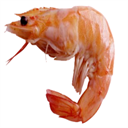
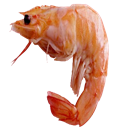
Update UI text and use new shrimp image
- Change header to "Don't be a shrimp!"
- Change instruction to "Remind me to sit straight in:"
- Make header and instruction text bold
- Use new shrimp cutout image for popup and icons

Changed region(s): [[0.0312, 0.0312, 0.9062, 1.0]]

diff --git a/popup.html b/popup.html
@@ -11,14 +11,14 @@
 </head>
 <body>
   <div class="container">
-    <h1>Don't be a shrimp</h1>
+    <h1>Don't be a shrimp!</h1>
 
     <div class="shrimp-container">
-      <img src="images/image.png" alt="Shrimp" class="shrimp-image" onerror="this.style.display='none'; this.nextElementSibling.style.display='flex';">
+      <img src="images/shrimp-main.png" alt="Shrimp" class="shrimp-image" onerror="this.style.display='none'; this.nextElementSibling.style.display='flex';">
       <div class="shrimp-placeholder">🦐</div>
     </div>
 
-    <p class="instruction">Choose when you want to be reminded to sit straight</p>
+    <p class="instruction">Remind me to sit straight in:</p>
 
     <div id="feedback" class="feedback"></div>
 

diff --git a/popup.css b/popup.css
@@ -37,7 +37,7 @@ body::before {
 
 h1 {
   font-size: 20px;
-  font-weight: normal;
+  font-weight: bold;
   text-align: center;
   margin-bottom: 16px;
   letter-spacing: 1px;
@@ -68,6 +68,7 @@ h1 {
 
 .instruction {
   font-size: 13px;
+  font-weight: bold;
   text-align: center;
   margin-bottom: 20px;
   line-height: 1.5;

diff --git a/README.md b/README.md
@@ -1,5 +1,5 @@
 <p align="center">
-  <img src="images/image.png" alt="Don't Be A Shrimp" width="150">
+  <img src="images/shrimp-main.png" alt="Don't Be A Shrimp" width="150">
 </p>
 
 <h1 align="center">Don't Be A Shrimp!</h1>
